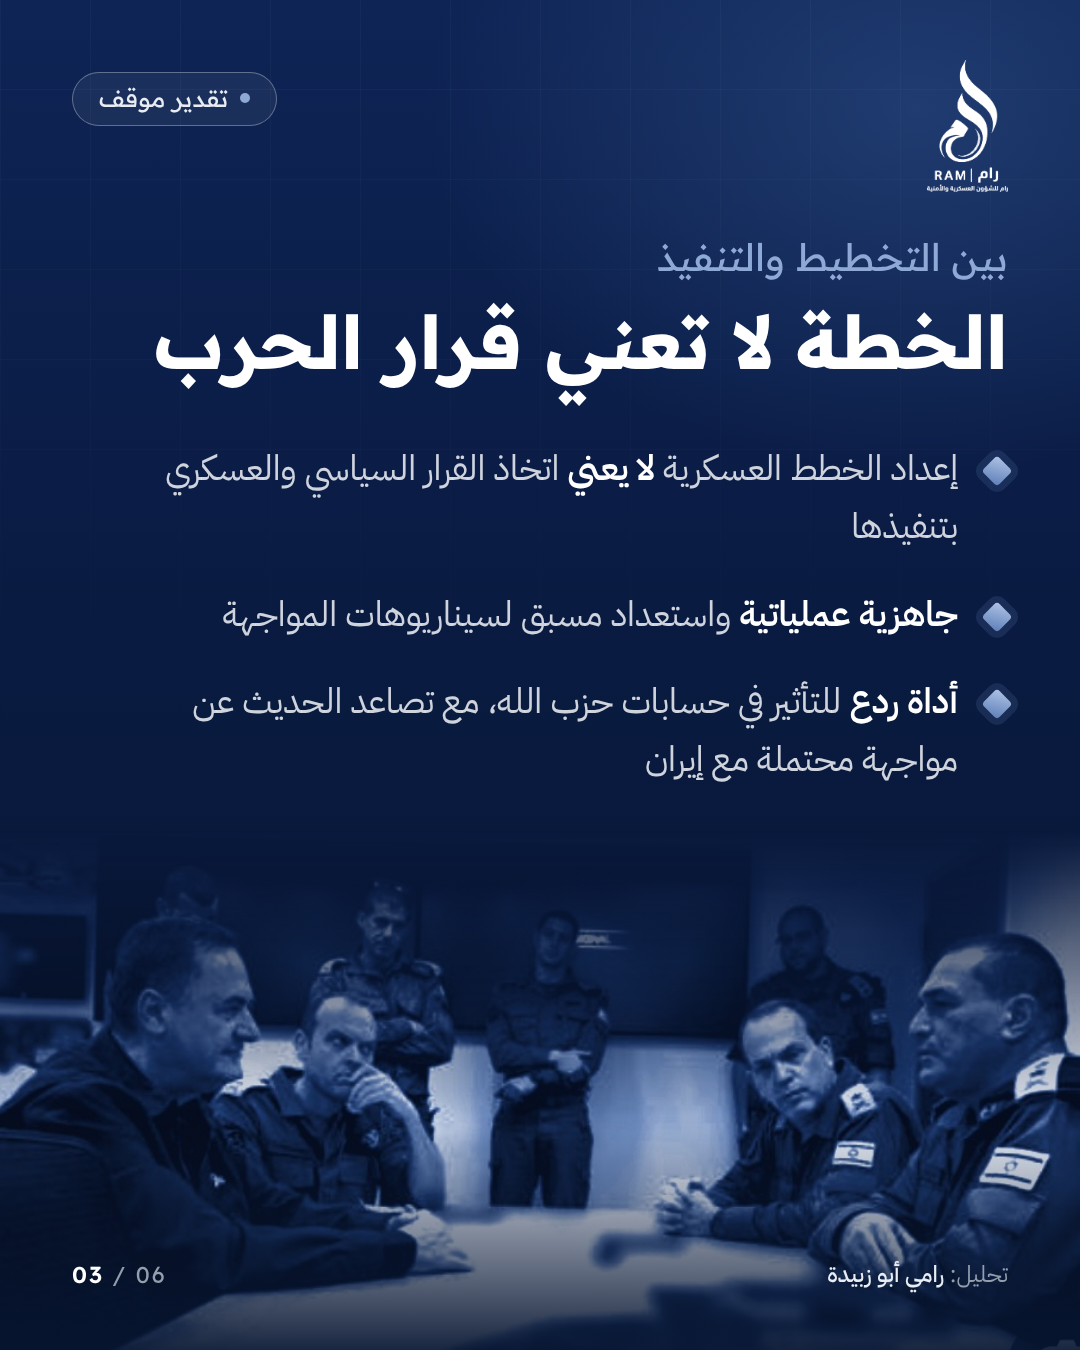
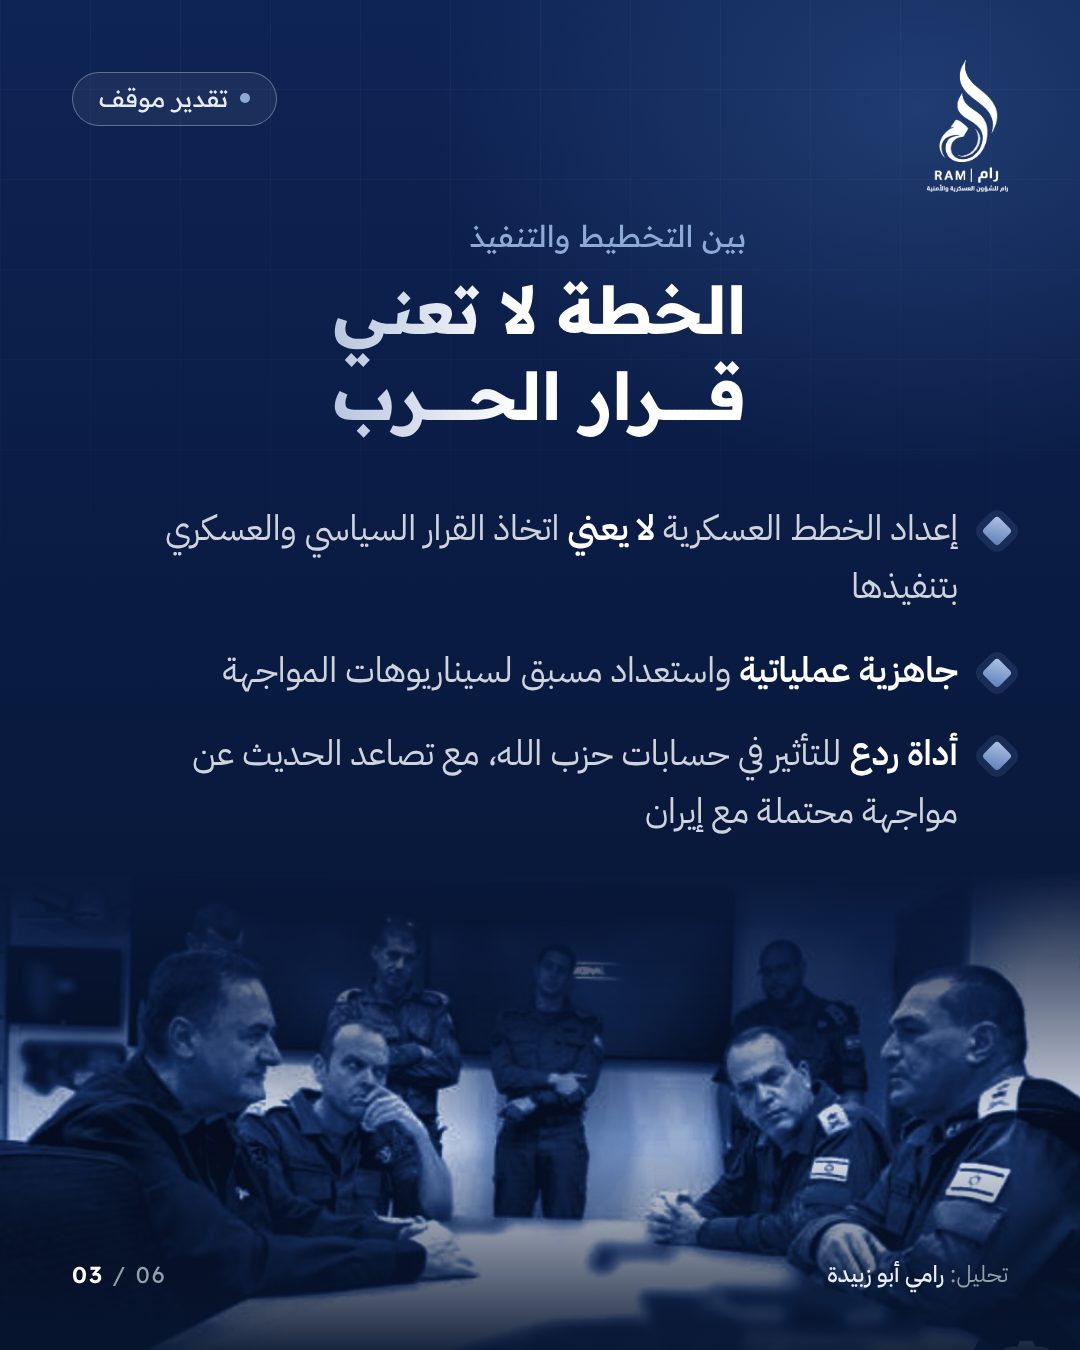
Centered title blocks with kashida-matched line widths; restore cover tag and byline
Claude-Session: https://claude.ai/code/session_01EW5L56NuYcnMJVgEDoh2db

diff --git a/carousel/carousel.html b/carousel/carousel.html
@@ -76,6 +76,17 @@ body{background:#333;font-family:var(--b);color:#fff;display:flex;flex-direction
 .swipe .dots{order:2;display:flex;gap:7px;direction:ltr}
 .swipe .dots i{width:9px;height:9px;border-radius:50%;background:#fff}
 .swipe .dots i:nth-child(2){opacity:.6}.swipe .dots i:nth-child(3){opacity:.3}
+
+/* كتلة العنوان: متوسّطة، والسطران الرئيسيان بنفس العرض (كشيدة) */
+.tb{position:absolute;left:0;right:0;display:flex;justify-content:center;z-index:2}
+.tbi{display:flex;flex-direction:column;align-items:stretch;text-align:right}
+.kick{font-family:var(--h);font-weight:400;font-size:30px;color:var(--sky-l);line-height:1.4;margin-bottom:10px}
+.ln{font-family:var(--h);font-weight:700;font-size:var(--ts);line-height:1.3;white-space:nowrap;text-align:center}
+.ln .k{display:inline-block;padding:.12em 0 .3em;margin:-.12em 0 -.3em;background:linear-gradient(to left,#fff 0%,#fff 55%,#B8C6DE 100%);-webkit-background-clip:text;background-clip:text;color:transparent}
+.hlbox{background:linear-gradient(150deg,#5D7FB8,#2F5089 60%,#203f78);border-radius:14px;padding:0 24px 12px;margin-top:18px}
+.hlbox .k{background:none;color:#fff}
+.tail{font-family:var(--h);font-weight:400;font-size:44px;color:var(--silver);text-align:left;margin-top:14px}
+.swipe{bottom:150px!important}
 </style>
 </head>
 <body>
@@ -94,18 +105,25 @@ body{background:#333;font-family:var(--b);color:#fff;display:flex;flex-direction
 <section class="slide" id="s1">
   <div class="photo" style="height:820px;background-image:url(photos/sidon.jpg);background-position:center 45%"></div>
   <img class="logo" src="assets/logo-white-full.png" alt="رام">
+  <div class="tag"><i></i>تقدير موقف</div>
 
-  <div class="head" style="top:270px">
-    <div class="kicker" style="font-size:36px">التهديد باحتلال مدن لبنانية وحصار الموانئ..</div>
-    <div class="title" style="margin-top:22px;font-size:86px">رسائل الردع الإسرائيلية</div>
-    <div class="title hl" style="font-size:74px;margin-top:14px">لمنع انخراط حزب الله</div>
-    <div class="sub" style="margin-top:20px;font-size:52px">في مواجهة إيران</div>
+  <div class="tb" style="top:250px">
+    <div class="tbi" style="--ts:76px">
+      <div class="kick">التهديد باحتلال مدن لبنانية وحصار الموانئ..</div>
+      <div class="ln"><span class="k">رسائل الردع الإسرائيلية</span></div>
+      <div class="ln hlbox"><span class="k">لمنع انخراط حزب الله</span></div>
+      <div class="tail">في مواجهة إيران</div>
+    </div>
   </div>
 
   <div class="swipe">
     <span class="arr"><svg viewBox="0 0 24 24"><path d="M15 5l-7 7 7 7" fill="none" stroke="#fff" stroke-width="2.2" stroke-linecap="round" stroke-linejoin="round"/></svg></span>
     <span>اسحب الآن</span>
     <span class="dots"><i></i><i></i><i></i></span>
+  </div>
+  <div class="foot">
+    <div><b>قراءة: رامي أبو زبيدة</b> · محلل للشؤون العسكرية</div>
+    <div class="pg"><em>01</em> / 06</div>
   </div>
 </section>
 
@@ -115,16 +133,19 @@ body{background:#333;font-family:var(--b);color:#fff;display:flex;flex-direction
   <img class="logo" src="assets/logo-white-full.png" alt="رام">
   <div class="tag"><i></i>تقدير موقف</div>
 
-  <div class="head" style="top:230px">
-    <div class="kicker">خطط جيش الاحتلال للجبهة اللبنانية</div>
-    <div class="title" style="margin-top:10px">ماذا كشفت «معاريف»؟</div>
+  <div class="tb" style="top:215px">
+    <div class="tbi" style="--ts:66px">
+      <div class="kick">خطط جيش الاحتلال للجبهة اللبنانية</div>
+      <div class="ln"><span class="k">ماذا كشفت</span></div>
+      <div class="ln"><span class="k">«معاريف»؟</span></div>
+    </div>
   </div>
 
-  <div class="frame" style="top:500px;height:330px"></div>
-  <div style="position:absolute;left:120px;right:120px;top:536px;text-align:center">
+  <div class="frame" style="top:520px;height:330px"></div>
+  <div style="position:absolute;left:120px;right:120px;top:556px;text-align:center">
     <div class="p">خطط معدّة لاحتلال مدن في جنوب لبنان،<br>وفرض <b>حصار بحري</b> على أهم موانئه</div>
   </div>
-  <div class="vs" style="position:absolute;left:72px;right:72px;top:710px">
+  <div class="vs" style="position:absolute;left:72px;right:72px;top:730px">
     <div><div class="dia"></div><div class="lab" style="margin-top:14px">احتلال مدن</div><div class="p" style="font-size:32px">صور · صيدا · النبطية</div></div>
     <div class="sep"></div>
     <div><div class="dia"></div><div class="lab" style="margin-top:14px">حصار بحري</div><div class="p" style="font-size:32px">ميناءا بيروت وطرابلس</div></div>
@@ -137,16 +158,19 @@ body{background:#333;font-family:var(--b);color:#fff;display:flex;flex-direction
 
 <!-- ============ 3. الخطة لا تعني القرار ============ -->
 <section class="slide" id="s3">
-  <div class="photo" style="height:520px;background-image:url(photos/warroom.jpg);background-position:center 30%"></div>
+  <div class="photo" style="height:480px;background-image:url(photos/warroom.jpg);background-position:center 30%"></div>
   <img class="logo" src="assets/logo-white-full.png" alt="رام">
   <div class="tag"><i></i>تقدير موقف</div>
 
-  <div class="head" style="top:230px">
-    <div class="kicker">بين التخطيط والتنفيذ</div>
-    <div class="title" style="margin-top:10px;font-size:74px">الخطة لا تعني قرار الحرب</div>
+  <div class="tb" style="top:215px">
+    <div class="tbi" style="--ts:66px">
+      <div class="kick">بين التخطيط والتنفيذ</div>
+      <div class="ln"><span class="k">الخطة لا تعني</span></div>
+      <div class="ln"><span class="k">قرار الحرب</span></div>
+    </div>
   </div>
 
-  <div class="list" style="position:absolute;right:72px;left:110px;top:440px;gap:30px">
+  <div class="list" style="position:absolute;right:72px;left:110px;top:500px;gap:26px">
     <div class="li"><div class="dia"></div><div class="p">إعداد الخطط العسكرية <b>لا يعني</b> اتخاذ القرار السياسي والعسكري بتنفيذها</div></div>
     <div class="li"><div class="dia"></div><div class="p"><b>جاهزية عملياتية</b> واستعداد مسبق لسيناريوهات المواجهة</div></div>
     <div class="li"><div class="dia"></div><div class="p"><b>أداة ردع</b> للتأثير في حسابات حزب الله، مع تصاعد الحديث عن مواجهة محتملة مع إيران</div></div>
@@ -163,12 +187,15 @@ body{background:#333;font-family:var(--b);color:#fff;display:flex;flex-direction
   <img class="logo" src="assets/logo-white-full.png" alt="رام">
   <div class="tag"><i></i>تقدير موقف</div>
 
-  <div class="head" style="top:560px">
-    <div class="kicker">بين الاستعداد والتجنّب</div>
-    <div class="title" style="margin-top:10px">المعضلة الإسرائيلية</div>
+  <div class="tb" style="top:520px">
+    <div class="tbi" style="--ts:66px">
+      <div class="kick">بين الاستعداد والتجنّب</div>
+      <div class="ln"><span class="k">المعضلة</span></div>
+      <div class="ln"><span class="k">الإسرائيلية</span></div>
+    </div>
   </div>
 
-  <div class="vs" style="position:absolute;left:72px;right:72px;top:830px">
+  <div class="vs" style="position:absolute;left:72px;right:72px;top:820px">
     <div><div class="meta">تستعد</div><div class="lab">لاحتمالات اتساع<br>المواجهة</div></div>
     <div class="sep"></div>
     <div><div class="meta">وتحاول تجنّب</div><div class="lab">الانزلاق إلى حرب<br>متعددة الجبهات</div></div>
@@ -188,12 +215,15 @@ body{background:#333;font-family:var(--b);color:#fff;display:flex;flex-direction
 <section class="slide" id="s5">
   <img class="logo" src="assets/logo-white-full.png" alt="رام">
   <div class="tag"><i></i>تقدير موقف</div>
-  <div class="head" style="top:230px">
-    <div class="kicker">أبعد من التوغّل الحدودي</div>
-    <div class="title" style="margin-top:10px">دلالات الأهداف</div>
+  <div class="tb" style="top:215px">
+    <div class="tbi" style="--ts:66px">
+      <div class="kick">أبعد من التوغّل الحدودي</div>
+      <div class="ln"><span class="k">دلالات</span></div>
+      <div class="ln"><span class="k">الأهداف</span></div>
+    </div>
   </div>
 
-  <svg style="position:absolute;left:0px;top:470px" width="480" height="700" viewBox="-110 -20 520 600">
+  <svg style="position:absolute;left:0px;top:490px" width="480" height="700" viewBox="-110 -20 520 600">
     <ellipse cx="150" cy="300" rx="260" ry="260" fill="url(#pglow)" opacity=".25"/>
     <use href="#lb" fill="url(#gfill)" stroke="url(#gstroke)" stroke-width="2.5"/>
     <g fill="none" stroke="#C9D2DF" stroke-width="2.5" stroke-dasharray="9 8" opacity=".85">
@@ -214,7 +244,7 @@ body{background:#333;font-family:var(--b);color:#fff;display:flex;flex-direction
     </g>
   </svg>
 
-  <div class="list" style="position:absolute;right:72px;width:540px;top:500px;gap:56px">
+  <div class="list" style="position:absolute;right:72px;width:540px;top:520px;gap:50px">
     <div>
       <div class="meta">التوغّل البرّي</div>
       <div class="lab" style="margin:6px 0 12px">صور · صيدا · النبطية</div>
@@ -236,16 +266,19 @@ body{background:#333;font-family:var(--b);color:#fff;display:flex;flex-direction
 
 <!-- ============ 6. الخلاصة ============ -->
 <section class="slide" id="s6">
-  <div class="photo" style="height:540px;background-image:url(photos/border.jpg);background-position:center 40%"></div>
+  <div class="photo" style="height:500px;background-image:url(photos/border.jpg);background-position:center 40%"></div>
   <img class="logo" src="assets/logo-white-full.png" alt="رام">
   <div class="tag"><i></i>تقدير موقف</div>
 
-  <div class="head" style="top:230px">
-    <div class="kicker">الخلاصة</div>
-    <div class="title" style="margin-top:10px">معادلة ردع استباقية</div>
+  <div class="tb" style="top:215px">
+    <div class="tbi" style="--ts:66px">
+      <div class="kick">الخلاصة</div>
+      <div class="ln"><span class="k">معادلة ردع</span></div>
+      <div class="ln"><span class="k">استباقية</span></div>
+    </div>
   </div>
 
-  <div class="list" style="position:absolute;right:72px;left:110px;top:480px;gap:34px">
+  <div class="list" style="position:absolute;right:72px;left:110px;top:510px;gap:30px">
     <div class="li"><div class="num">01</div><div><div class="meta">الهدف</div><div class="p">منع حزب الله من <b>فتح جبهة إسناد</b> لإيران</div></div></div>
     <div class="li"><div class="num">02</div><div><div class="meta">الوسيلة</div><div class="p">التلويح بنقل الحرب إلى <b>عمق الأراضي اللبنانية</b></div></div></div>
     <div class="li"><div class="num">03</div><div><div class="meta">الخيار القائم</div><div class="p">إبقاء <b>الحرب الواسعة</b> حاضرة تحسباً لفشل الردع</div></div></div>
@@ -256,5 +289,34 @@ body{background:#333;font-family:var(--b);color:#fff;display:flex;flex-direction
   </div>
 </section>
 
+<script>
+// كشيدة: تمديد السطر الأقصر بالتطويل حتى يساوي عرض الأطول
+(function(){
+  const CONNECT=/[بتثجحخسشصضطظعغفقكلمنهيئـ]/, AR=/[\u0620-\u064A]/;
+  function stretch(span,target){
+    const base=span.textContent; const words=base.split(' ');
+    // مواضع مرشّحة: داخل الكلمة بعد حرف متّصل، الأفضلية لآخر حرفين متصلين في الكلمات الأطول
+    let cands=[];let off=0;
+    words.forEach(w=>{let best=-1;
+      for(let i=w.length-2;i>=1;i--){ if(CONNECT.test(w[i])&&AR.test(w[i+1])){best=i;break;} }
+      if(best<0&&w.length>1&&CONNECT.test(w[0])&&AR.test(w[1]))best=0;
+      if(best>=0)cands.push({pos:off+best,len:w.length});
+      off+=w.length+1;});
+    if(!cands.length)return;
+    cands.sort((a,b)=>b.len-a.len); cands=cands.slice(0,2);
+    const counts=cands.map(()=>0); let k=0, guard=0;
+    const build=()=>{let t=base.split('');cands.map((c,i)=>[c.pos,counts[i]]).sort((a,b)=>b[0]-a[0]).forEach(([p,n])=>{t.splice(p+1,0,'ـ'.repeat(n));});return t.join('');};
+    while(span.getBoundingClientRect().width<target-2&&guard++<80){counts[k%cands.length]++;k++;span.textContent=build();}
+    if(span.getBoundingClientRect().width>target+2){counts[(k-1)%cands.length]--;span.textContent=build();}
+  }
+  function run(){document.querySelectorAll('.tbi').forEach(b=>{
+    const spans=[...b.querySelectorAll('.ln .k')];
+    const w=spans.map(sp=>{const box=sp.parentElement;const pad=box.classList.contains('hlbox')?48:0;return sp.getBoundingClientRect().width+pad;});
+    const T=Math.max(...w);
+    spans.forEach((sp,i)=>{const pad=sp.parentElement.classList.contains('hlbox')?48:0;if(w[i]<T-4)stretch(sp,T-pad);});
+  });document.body.dataset.ready=1;}
+  document.fonts.ready.then(run);
+})();
+</script>
 </body>
 </html>
